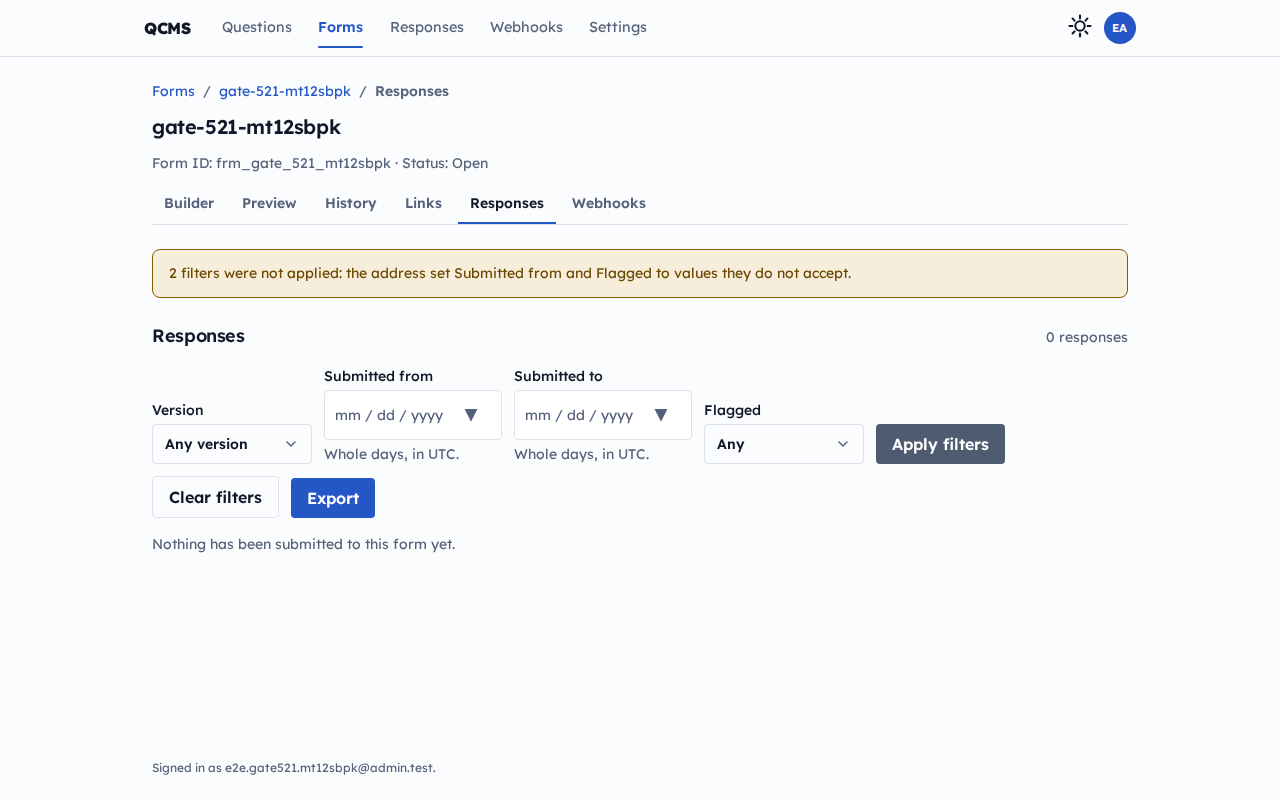
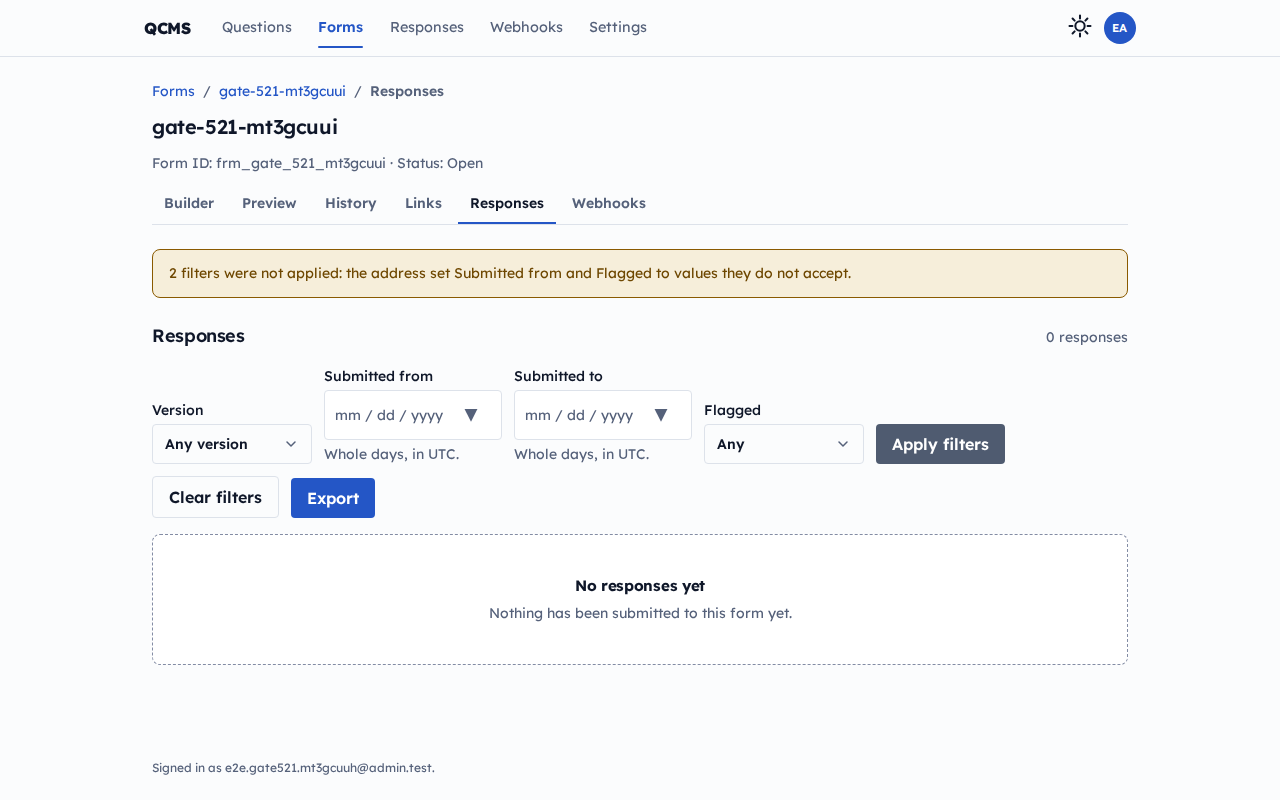
docs(admin): 521 capture the screenshot gate: both notice states, three modes, both widths
The gate this PR owes. Two states rather than one, because the change is a new
warning notice AND a moved empty sentence and the two interact: nothing parsing
gives the plural copy over the unfiltered sentence, one filter surviving gives
the singular copy over the filtered one. Three mode layers, because the notice
is a coloured surface the sheet has to carry at every contrast level.

The two Playwright specs' empty-state assertions move from toHaveText to
toContainText: rebasing onto issue 514 made the empty state the contract's
panel, so the element carries a heading above the sentence. The distinction
stays load-bearing because the two sentences are disjoint.

diff --git a/apps/admin/e2e/responses-filter-validation.pw.ts b/apps/admin/e2e/responses-filter-validation.pw.ts
@@ -46,6 +46,15 @@ let formId = "";
  */
 let totpSecret = "";
 
+/**
+ * The two empty sentences, matched with `toContainText` rather than `toHaveText`.
+ *
+ * Issue 514 made the empty state the contract's panel, so the element carries a heading
+ * as well as a sentence ("No responses yet" above the unfiltered one) and an exact-text
+ * assertion no longer holds. The distinction these tests exist for survives the change,
+ * because the two sentences are disjoint: the filtered panel is its heading alone, so a
+ * screen showing the wrong one fails on the string it does not contain.
+ */
 const UNFILTERED = "Nothing has been submitted to this form yet.";
 const FILTERED = "No response matches these filters.";
 
@@ -70,7 +79,7 @@ test.describe("response filters: what was applied is what is claimed", () => {
     formId = await createForm(page, `filter-validation-${RUN}`, "Filter validation");
 
     await page.goto(`/forms/${formId}/responses`);
-    await expect(page.getByTestId("qcms-responses-empty")).toHaveText(UNFILTERED);
+    await expect(page.getByTestId("qcms-responses-empty")).toContainText(UNFILTERED);
     await expect(page.getByTestId("qcms-responses-ignored-filters")).toHaveCount(0);
   });
 
@@ -82,7 +91,7 @@ test.describe("response filters: what was applied is what is claimed", () => {
     // `maybe` was never sent, and the page still announced a filtered empty result for
     // it: a statement about a filter that did not exist.
     await page.goto(`/forms/${formId}/responses?flagged=maybe`);
-    await expect(page.getByTestId("qcms-responses-empty")).toHaveText(UNFILTERED);
+    await expect(page.getByTestId("qcms-responses-empty")).toContainText(UNFILTERED);
     await expect(page.getByTestId("qcms-responses-ignored-filters")).toContainText("Flagged");
     // The toolbar agrees: no flag filter is selected, because none was applied.
     await expect(page.getByRole("button", { name: /Flagged$/ })).toContainText("Any");
@@ -98,7 +107,7 @@ test.describe("response filters: what was applied is what is claimed", () => {
     // alert. Both are unreachable once a value that does not parse is not a filter: the
     // empty state is the unfiltered one, and neither failure surface is on screen.
     await page.goto(`/forms/${formId}/responses?from=xyz`);
-    await expect(page.getByTestId("qcms-responses-empty")).toHaveText(UNFILTERED);
+    await expect(page.getByTestId("qcms-responses-empty")).toContainText(UNFILTERED);
     await expect(page.getByText("The responses could not be loaded.")).toHaveCount(0);
     await expect(page.getByTestId("qcms-responses-ignored-filters")).toContainText(
       "Submitted from",
@@ -110,7 +119,7 @@ test.describe("response filters: what was applied is what is claimed", () => {
     // A valid filter alongside two invalid ones: the valid one applies (so the filtered
     // sentence is true), and the invalid ones are named rather than counted.
     await page.goto(`/forms/${formId}/responses?flagged=true&from=nope&version=abc`);
-    await expect(page.getByTestId("qcms-responses-empty")).toHaveText(FILTERED);
+    await expect(page.getByTestId("qcms-responses-empty")).toContainText(FILTERED);
     const ignored = page.getByTestId("qcms-responses-ignored-filters");
     await expect(ignored).toContainText("Version");
     await expect(ignored).toContainText("Submitted from");
@@ -126,11 +135,11 @@ test.describe("response filters: what was applied is what is claimed", () => {
     // is for. A fix that made every empty result read as "nothing submitted" would be
     // caught here rather than in production.
     await page.goto(`/forms/${formId}/responses?from=2020-01-01&to=2020-01-02`);
-    await expect(page.getByTestId("qcms-responses-empty")).toHaveText(FILTERED);
+    await expect(page.getByTestId("qcms-responses-empty")).toContainText(FILTERED);
     await expect(page.getByTestId("qcms-responses-ignored-filters")).toHaveCount(0);
 
     await page.goto(`/forms/${formId}/responses?flagged=true`);
-    await expect(page.getByTestId("qcms-responses-empty")).toHaveText(FILTERED);
+    await expect(page.getByTestId("qcms-responses-empty")).toContainText(FILTERED);
     await expect(page.getByTestId("qcms-responses-ignored-filters")).toHaveCount(0);
   });
 

diff --git a/apps/admin/e2e/gate-screenshots-pr-521.pw.ts b/apps/admin/e2e/gate-screenshots-pr-521.pw.ts
@@ -71,14 +71,14 @@ test("captures the ignored-filter notice against both empty states", async ({ pa
     await expect(page.getByTestId("qcms-responses-ignored-filters")).toContainText(
       "2 filters were not applied",
     );
-    await expect(page.getByTestId("qcms-responses-empty")).toHaveText(UNFILTERED);
+    await expect(page.getByTestId("qcms-responses-empty")).toContainText(UNFILTERED);
     await capture(page, `ignored-filters-${mode}`);
 
     await page.goto(`/forms/${formId}/responses?flagged=true&from=nope`);
     await expect(page.getByTestId("qcms-responses-ignored-filters")).toContainText(
       "One filter was not applied",
     );
-    await expect(page.getByTestId("qcms-responses-empty")).toHaveText(FILTERED);
+    await expect(page.getByTestId("qcms-responses-empty")).toContainText(FILTERED);
     await capture(page, `ignored-filters-with-valid-${mode}`);
   }
 });
